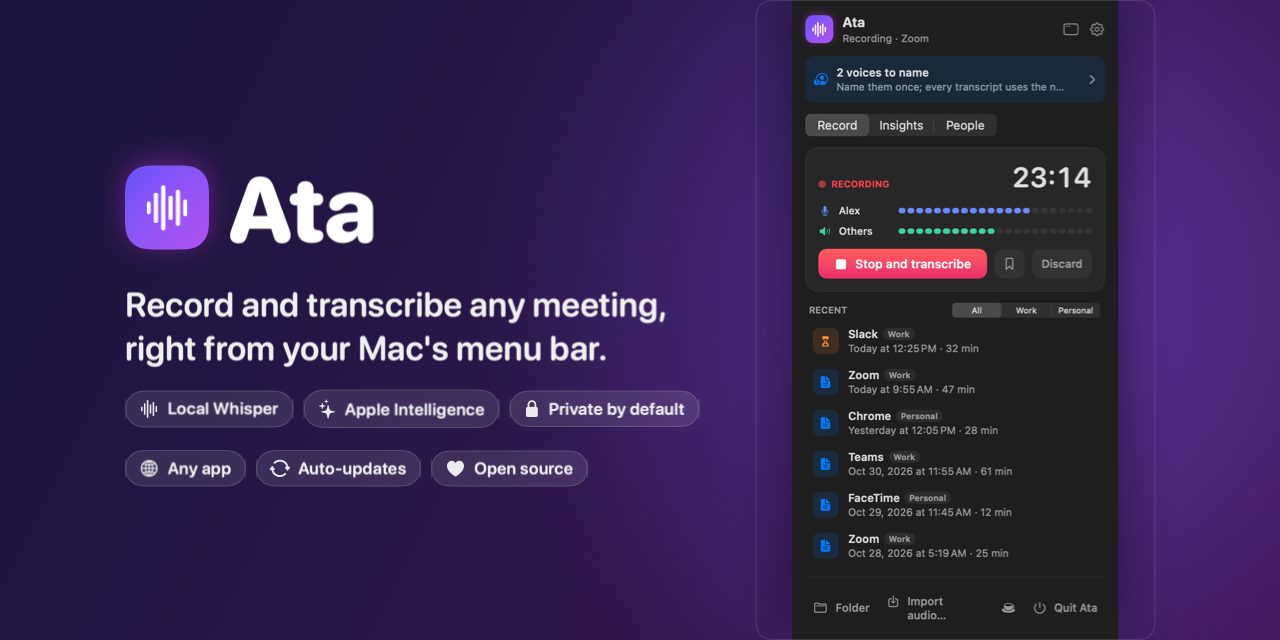
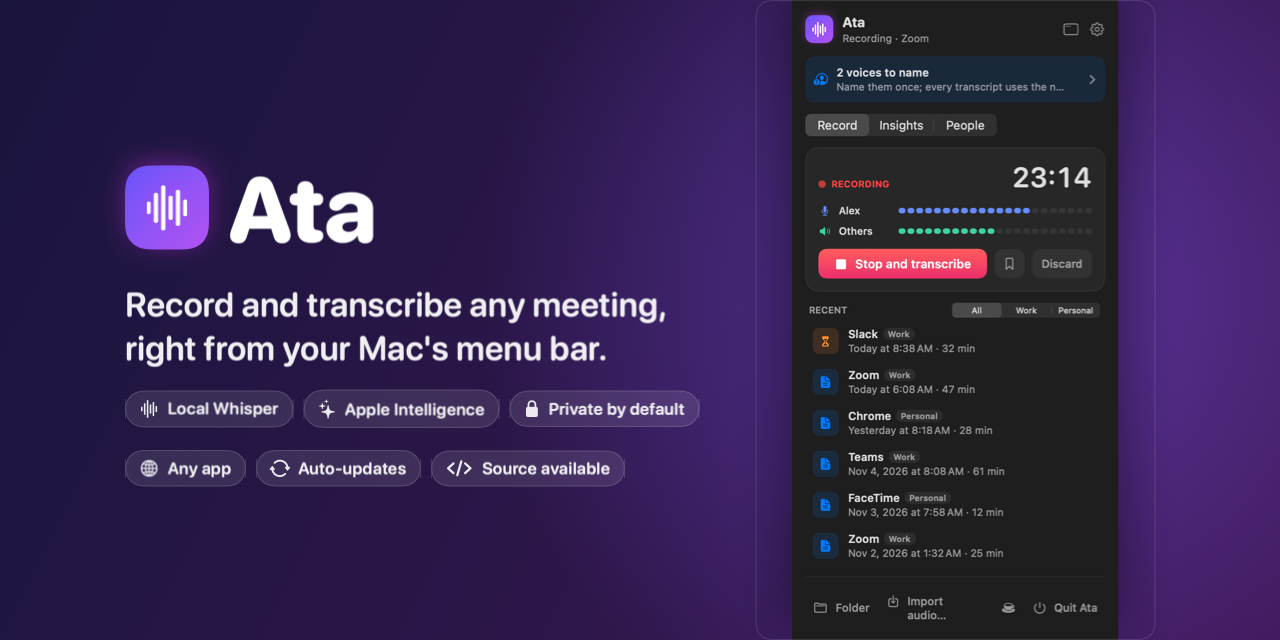
chore: license under PolyForm Noncommercial 1.0.0 (#73)
Free for personal, research and non-profit use; business use needs a
separate licence. Releases up to 3.4.0 stay MIT. README, NOTICE, both
Info.plist copyright lines and the banner pill follow.

diff --git a/Tests/AtaTests/LicenseTests.swift b/Tests/AtaTests/LicenseTests.swift
@@ -1,0 +1,30 @@
+import XCTest
+
+/// Ata is source-available under PolyForm Noncommercial, and everything that
+/// names the licence says the same.
+final class LicenseTests: XCTestCase {
+    private static let repo = URL(fileURLWithPath: #filePath)
+        .deletingLastPathComponent()   // AtaTests
+        .deletingLastPathComponent()   // Tests
+        .deletingLastPathComponent()   // repo
+
+    private func read(_ path: String) throws -> String {
+        try String(contentsOf: Self.repo.appending(path: path), encoding: .utf8)
+    }
+
+    func testTheLicenceIsPolyFormNoncommercial() throws {
+        let licence = try read("LICENSE")
+        XCTAssertTrue(licence.hasPrefix("# PolyForm Noncommercial License 1.0.0"))
+        XCTAssertTrue(licence.contains("Required Notice: Copyright (c) 2026 Miguel Peixoto"))
+    }
+
+    func testNothingStillSaysMIT() throws {
+        for path in ["Resources/Info.plist", "Resources/iOS/Info.plist"] {
+            let plist = try read(path)
+            XCTAssertTrue(plist.contains("PolyForm Noncommercial"), path)
+            XCTAssertFalse(plist.contains("MIT"), path)
+        }
+        XCTAssertFalse(try read("README.md").contains("license-MIT"), "the README badge")
+        XCTAssertFalse(try read("Sources/Ata/Snapshots.swift").contains("\"Open source\""), "the banner")
+    }
+}

diff --git a/Sources/Ata/Snapshots.swift b/Sources/Ata/Snapshots.swift
@@ -280,7 +280,7 @@ enum Snapshots {
                         HStack(spacing: 10) {
                             chip("globe", "Any app")
                             chip("arrow.triangle.2.circlepath", "Auto-updates")
-                            chip("heart.fill", "Open source")
+                            chip("chevron.left.forwardslash.chevron.right", "Source available")
                         }
                     }
                     shot

diff --git a/README.md b/README.md
@@ -9,7 +9,7 @@
 ![macOS 14.2+](https://img.shields.io/badge/macOS-14.2%2B-black?logo=apple)
 ![Apple Silicon](https://img.shields.io/badge/Apple%20Silicon-arm64-black)
 ![Swift 5.9](https://img.shields.io/badge/Swift-5.9-F05138?logo=swift&logoColor=white)
-[![License: MIT](https://img.shields.io/badge/license-MIT-blue.svg)](LICENSE)
+[![License: PolyForm Noncommercial](https://img.shields.io/badge/license-PolyForm%20Noncommercial-blue.svg)](LICENSE)
 [![Buy me a coffee](https://img.shields.io/badge/buy%20me%20a%20coffee-ffdd00?logo=buymeacoffee&logoColor=black)](https://buymeacoffee.com/mcpeixoto)
 
 **Ata** is a tiny menu bar app that records your meetings — Slack, Zoom, Meet, Teams, FaceTime,
@@ -280,7 +280,14 @@ Licences are listed in [NOTICE](NOTICE).
 
 ## License
 
-[MIT](LICENSE) © Miguel Peixoto
+[PolyForm Noncommercial 1.0.0](LICENSE) © Miguel Peixoto
+
+Free for personal use, study, research and non-profits. Using Ata or its code in a
+business, or selling anything built from it, needs a separate licence: open an issue
+on this repository to ask for one.
+
+Versions up to and including 3.4.0 were released under the MIT licence, and those
+copies stay under it.
 
 <p align="center">
 If Ata saved you from taking notes, <a href="https://buymeacoffee.com/mcpeixoto">buy me a coffee</a> ☕
